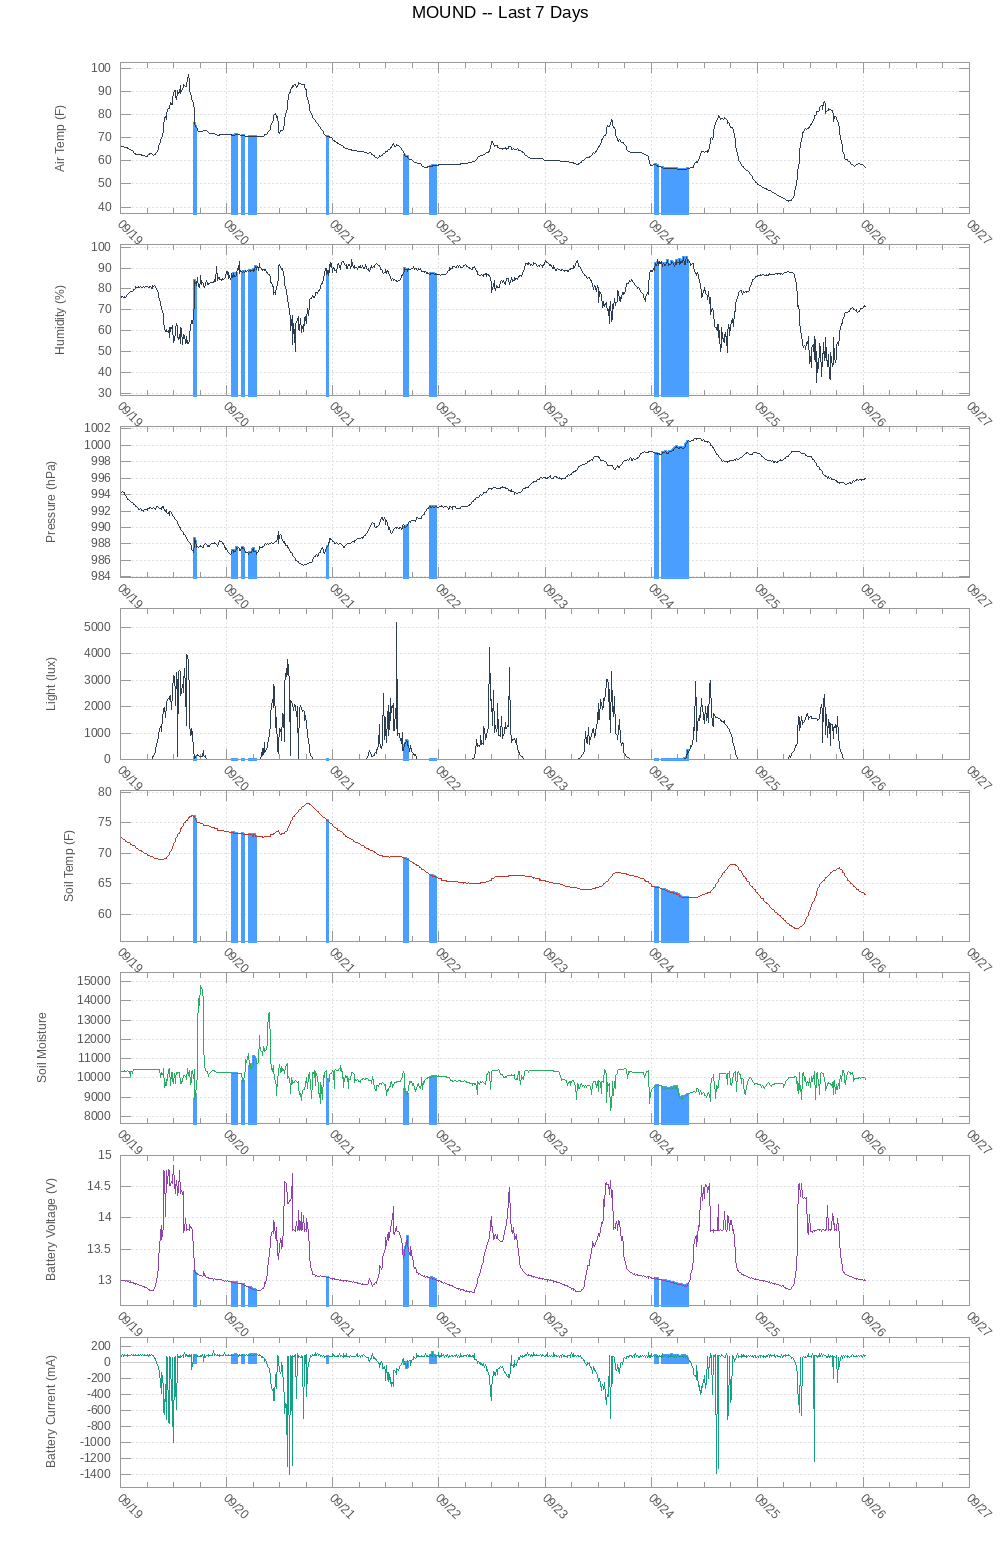
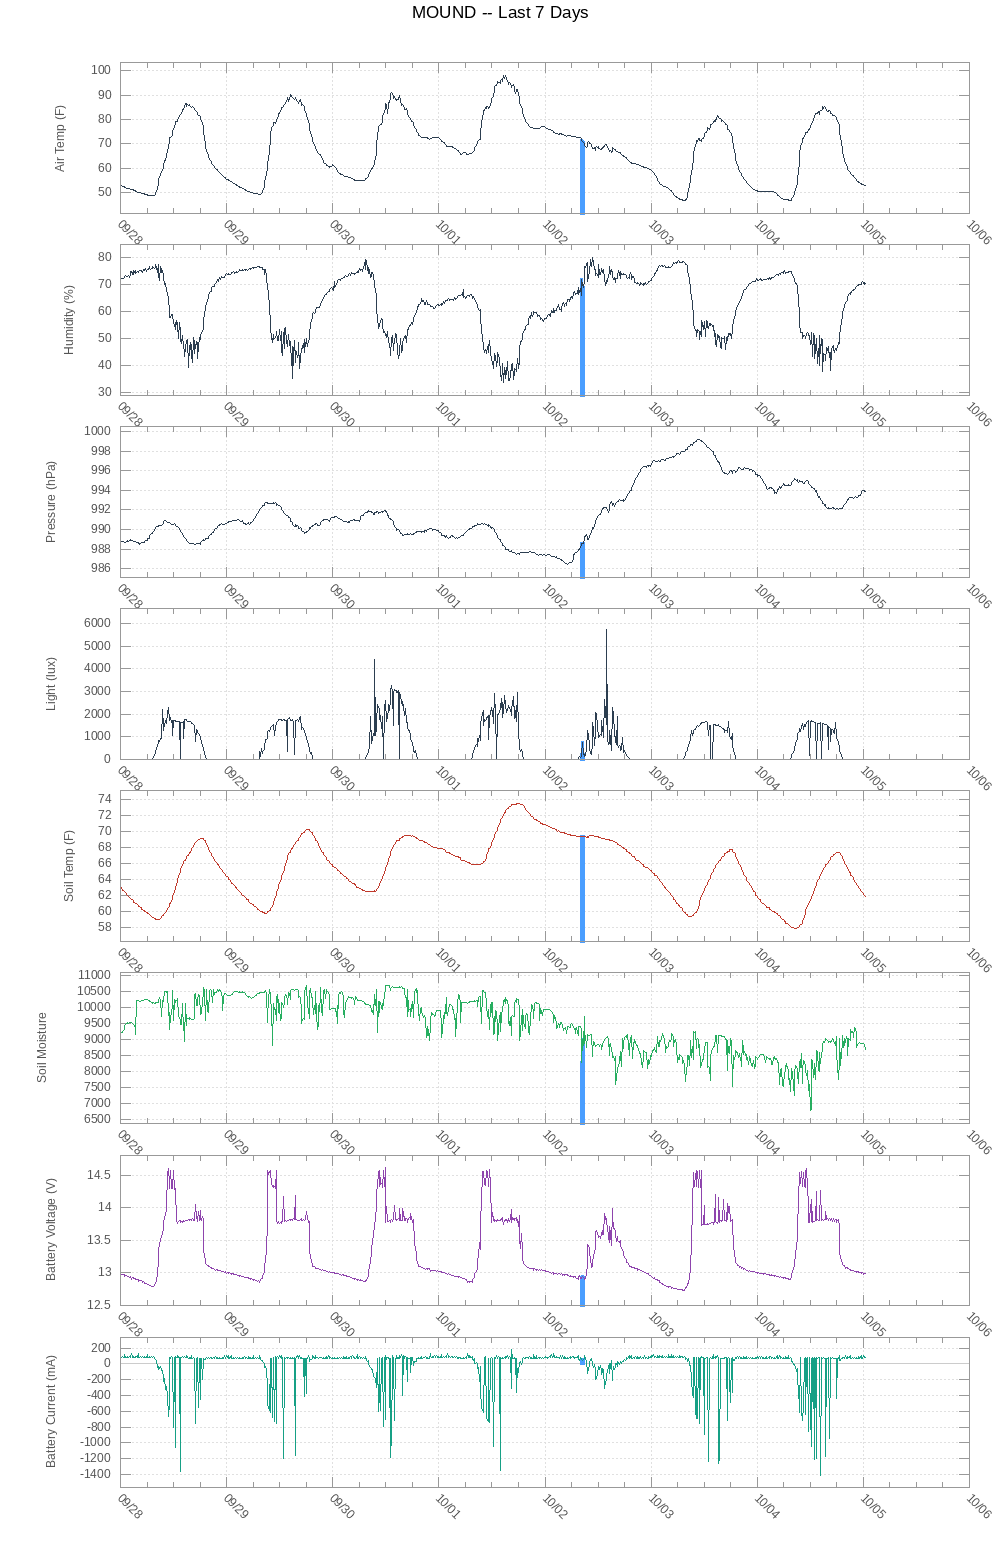
routine backup

diff --git a/mound/data_live.html b/mound/data_live.html
@@ -38,23 +38,23 @@
 
       <hr style="border:none; border-top: 1px solid #ccc; margin: 1rem 0;">
 
-      <p><strong>Last reading:</strong> 2026-09-26 18:50:03</p>
+      <p><strong>Last reading:</strong> 2026-10-05 07:20:03</p>
 
       <table style="border:none; border-collapse:collapse; font-family:inherit; font-size:inherit; color:inherit;">
-        <tr><td style="padding: 0.2rem 1.5rem 0.2rem 0;">Air Temperature</td><td>74.2 F</td></tr>
-        <tr><td style="padding: 0.2rem 1.5rem 0.2rem 0;">Humidity</td><td>54.0%</td></tr>
-        <tr><td style="padding: 0.2rem 1.5rem 0.2rem 0;">Pressure</td><td>990.9 hPa</td></tr>
-        <tr><td style="padding: 0.2rem 1.5rem 0.2rem 0;">Light</td><td>387 lux</td></tr>
-        <tr><td style="padding: 0.2rem 1.5rem 0.2rem 0;">Soil Temperature</td><td>68.5 F</td></tr>
+        <tr><td style="padding: 0.2rem 1.5rem 0.2rem 0;">Air Temperature</td><td>45.2 F</td></tr>
+        <tr><td style="padding: 0.2rem 1.5rem 0.2rem 0;">Humidity</td><td>73.8%</td></tr>
+        <tr><td style="padding: 0.2rem 1.5rem 0.2rem 0;">Pressure</td><td>995.8 hPa</td></tr>
+        <tr><td style="padding: 0.2rem 1.5rem 0.2rem 0;">Light</td><td>3 lux</td></tr>
+        <tr><td style="padding: 0.2rem 1.5rem 0.2rem 0;">Soil Temperature</td><td>57.8 F</td></tr>
         <tr><td style="padding: 0.2rem 1.5rem 0.2rem 0;">Soil Moisture</td><td>Saturated</td></tr>
         <tr><td style="padding: 0.2rem 1.5rem 0.2rem 0;">Rain</td><td>No</td></tr>
-        <tr><td style="padding: 0.2rem 1.5rem 0.2rem 0;">Battery Voltage</td><td>13.40 V</td></tr>
-        <tr><td style="padding: 0.2rem 1.5rem 0.2rem 0;">Battery Current</td><td>24.7 mA</td></tr>
+        <tr><td style="padding: 0.2rem 1.5rem 0.2rem 0;">Battery Voltage</td><td>12.86 V</td></tr>
+        <tr><td style="padding: 0.2rem 1.5rem 0.2rem 0;">Battery Current</td><td>81.2 mA</td></tr>
       </table>
 
       <hr style="border:none; border-top: 1px solid #ccc; margin: 1rem 0;">
 
-      <p><strong>Today -- 2026-09-26</strong></p>
+      <p><strong>Today -- 2026-10-05</strong></p>
 
       <figure>
         <img src="graphs/today.png"
@@ -90,7 +90,7 @@
 
     </blockquote>
 
-    <p style="font-size: 0.85rem; color: #999;">2026-09-26 · auto-generated</p>
+    <p style="font-size: 0.85rem; color: #999;">2026-10-05 · auto-generated</p>
 
   </div>
 

diff --git a/mound/archive/2026-10.html b/mound/archive/2026-10.html
@@ -3,7 +3,7 @@
 <head>
   <meta charset="UTF-8" />
   <meta name="viewport" content="width=device-width, initial-scale=1.0" />
-  <title>MOUND -- Archive | yesteryear forever</title>
+  <title>MOUND -- October 2026 Archive | yesteryear forever</title>
   <link rel="stylesheet" href="../../style.css" />
   <script src="../../script.js" defer></script>
 </head>
@@ -28,16 +28,14 @@
   <div class="container">
     <h1><a href="../../index.html">| yesteryear forever |</a></h1>
     <blockquote>
-      <p><strong>MOUND -- Archive</strong></p>
-      <p><a href="../data_live.html">&larr; back to live data</a></p>
+      <p><strong>MOUND -- October 2026</strong></p>
+      <p><a href="data_archive.html">&larr; back to archive</a> &nbsp;·&nbsp; <a href="../data_live.html">back to live data</a></p>
       <hr style="border:none; border-top: 1px solid #ccc; margin: 1rem 0;">
-      <p><strong>Browse by month</strong></p>
       <ul style="list-style:none; padding:0;">
-<li><a href="2026-10.html">October 2026</a> &nbsp;<span style="color:#999;">(4 days)</span></li>
-<li><a href="2026-09.html">September 2026</a> &nbsp;<span style="color:#999;">(30 days)</span></li>
-<li><a href="2026-08.html">August 2026</a> &nbsp;<span style="color:#999;">(12 days)</span></li>
-<li><a href="2026-07.html">July 2026</a> &nbsp;<span style="color:#999;">(22 days)</span></li>
-<li><a href="2026-06.html">June 2026</a> &nbsp;<span style="color:#999;">(24 days)</span></li>
+<li><a href="../graphs/archive/2026-10-04.png">2026-10-04</a></li>
+<li><a href="../graphs/archive/2026-10-03.png">2026-10-03</a></li>
+<li><a href="../graphs/archive/2026-10-02.png">2026-10-02</a></li>
+<li><a href="../graphs/archive/2026-10-01.png">2026-10-01</a></li>
 
       </ul>
     </blockquote>

diff --git a/mound/archive/2026-09.html b/mound/archive/2026-09.html
@@ -32,6 +32,11 @@
       <p><a href="data_archive.html">&larr; back to archive</a> &nbsp;·&nbsp; <a href="../data_live.html">back to live data</a></p>
       <hr style="border:none; border-top: 1px solid #ccc; margin: 1rem 0;">
       <ul style="list-style:none; padding:0;">
+<li><a href="../graphs/archive/2026-09-30.png">2026-09-30</a></li>
+<li><a href="../graphs/archive/2026-09-29.png">2026-09-29</a></li>
+<li><a href="../graphs/archive/2026-09-28.png">2026-09-28</a></li>
+<li><a href="../graphs/archive/2026-09-27.png">2026-09-27</a></li>
+<li><a href="../graphs/archive/2026-09-26.png">2026-09-26</a></li>
 <li><a href="../graphs/archive/2026-09-25.png">2026-09-25</a></li>
 <li><a href="../graphs/archive/2026-09-24.png">2026-09-24</a></li>
 <li><a href="../graphs/archive/2026-09-23.png">2026-09-23</a></li>
